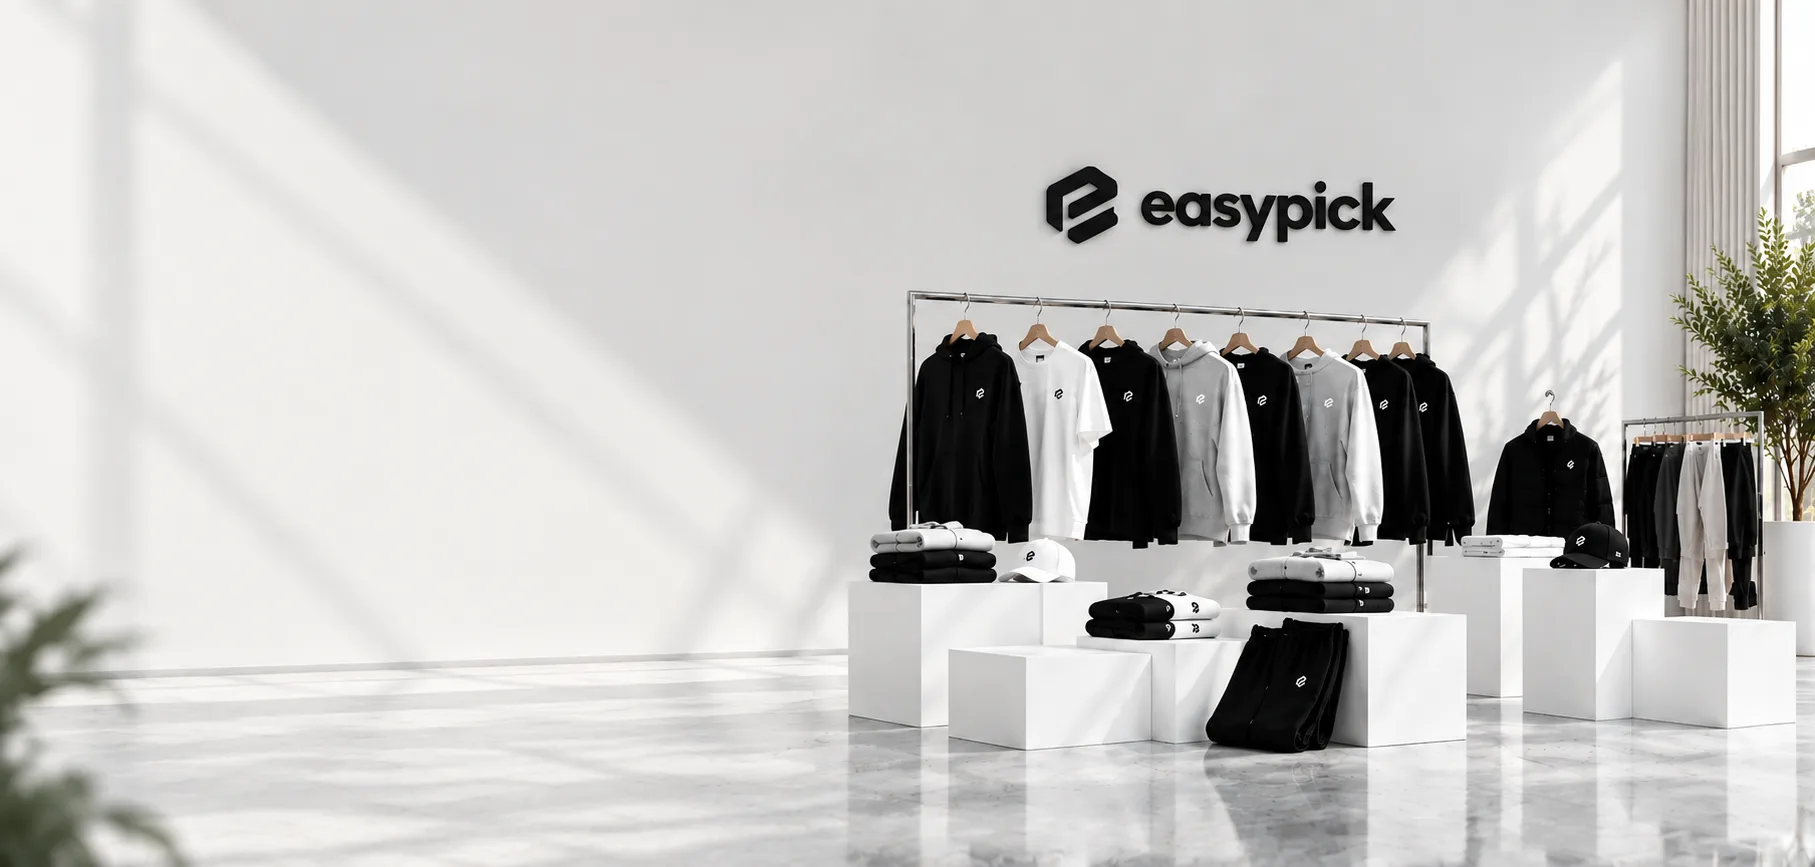
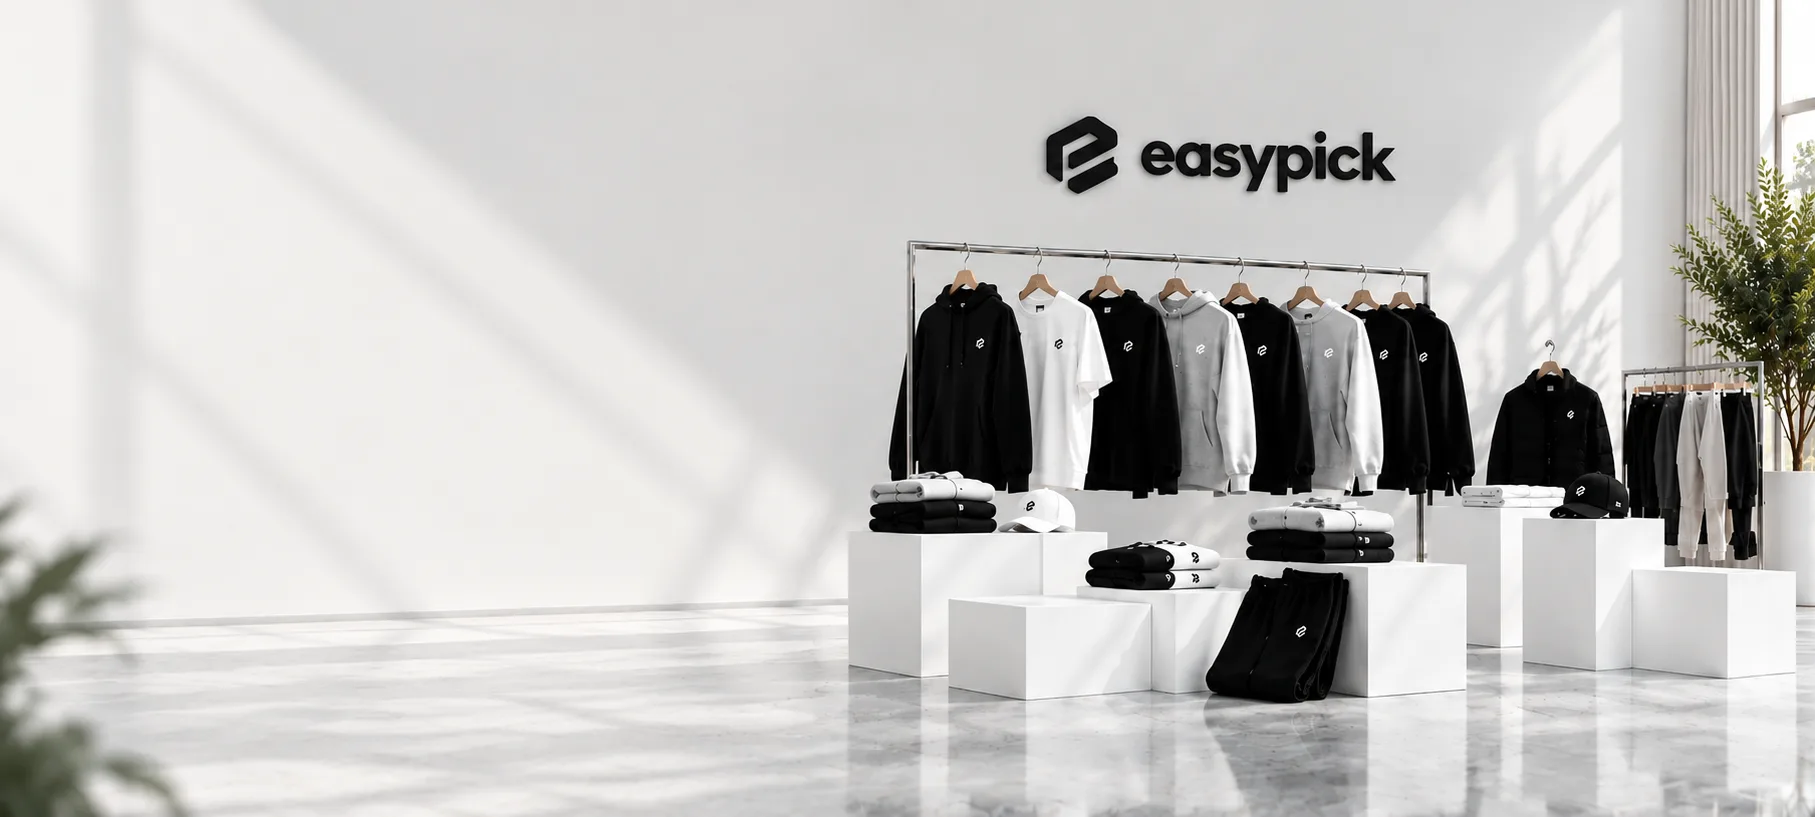
Drops: see-through header over the showroom, a little less wall on top

diff --git a/src/components/site-header.tsx b/src/components/site-header.tsx
@@ -91,6 +91,8 @@ export function SiteHeader() {
   // The visit page is one full screen of the store with no header at all: just the logo on the
   // left and a small black Back button on the right.
   const visit = pathname === "/visit";
+  // On Drops (computers) the showroom picture runs up behind a see-through header (owner, 25 Oct 2026).
+  const clear = pathname === "/drops";
   const expanded = open && !visit;
   const flat = atTop && !visit;
 
@@ -163,7 +165,7 @@ export function SiteHeader() {
         Skip to content
       </a>
       {/* Keeps page content clear of the floating nav. The home hero runs full-bleed under it instead. */}
-      {pathname !== "/" && !visit && <div className="h-[72px] md:h-[88px]" aria-hidden />}
+      {pathname !== "/" && !visit && <div className={`h-[72px] md:h-[88px] ${clear ? "md:hidden" : ""}`} aria-hidden />}
 
       {/* Three floating pills: logo · links · actions. Clicks pass through the gaps. */}
       <MotionConfig reducedMotion="user">
@@ -173,7 +175,7 @@ export function SiteHeader() {
           initial={false}
           animate={flat ? { opacity: 1, y: 0 } : { opacity: 0, y: -12 }}
           transition={{ duration: 0.25, ease: "easeOut" }}
-          className="pointer-events-none fixed inset-x-0 top-0 z-40 h-[72px] border-b border-mist bg-paper pt-[env(safe-area-inset-top)] md:h-[88px]"
+          className={`pointer-events-none fixed inset-x-0 top-0 z-40 h-[72px] border-b border-mist bg-paper pt-[env(safe-area-inset-top)] md:h-[88px] ${clear ? "md:hidden" : ""}`}
         />
         <div className="pointer-events-none fixed inset-x-0 top-3 z-50 md:top-5">
           <div className="container-ep relative flex items-center justify-between gap-3">

diff --git a/src/app/drops/page.tsx b/src/app/drops/page.tsx
@@ -52,7 +52,7 @@ export default async function DropsPage() {
         <div aria-hidden className="absolute inset-0 -z-10 bg-[linear-gradient(90deg,rgba(248,248,246,0.85)_0%,rgba(248,248,246,0.55)_32%,rgba(248,248,246,0)_55%)] max-md:hidden" />
         <Image src="/drops/hero-showroom-phone.webp" alt="" width={900} height={865} priority sizes="100vw" className="block h-auto w-full md:hidden" />
 
-        <div className="container-ep flex flex-col py-8 md:min-h-[calc(100svh-88px)] md:justify-center md:py-10">
+        <div className="container-ep flex flex-col py-8 md:min-h-[100svh] md:justify-center md:pb-10 md:pt-[108px]">
           <div className="w-full md:max-w-[440px]">
             <p className="index text-ink/60">Every other Friday · 6 PM</p>
             <h1 id="drops-title" className="display mt-3 text-[clamp(4rem,2.6rem+6vw,8rem)] font-extralight leading-[0.82] tracking-[0.02em]">
